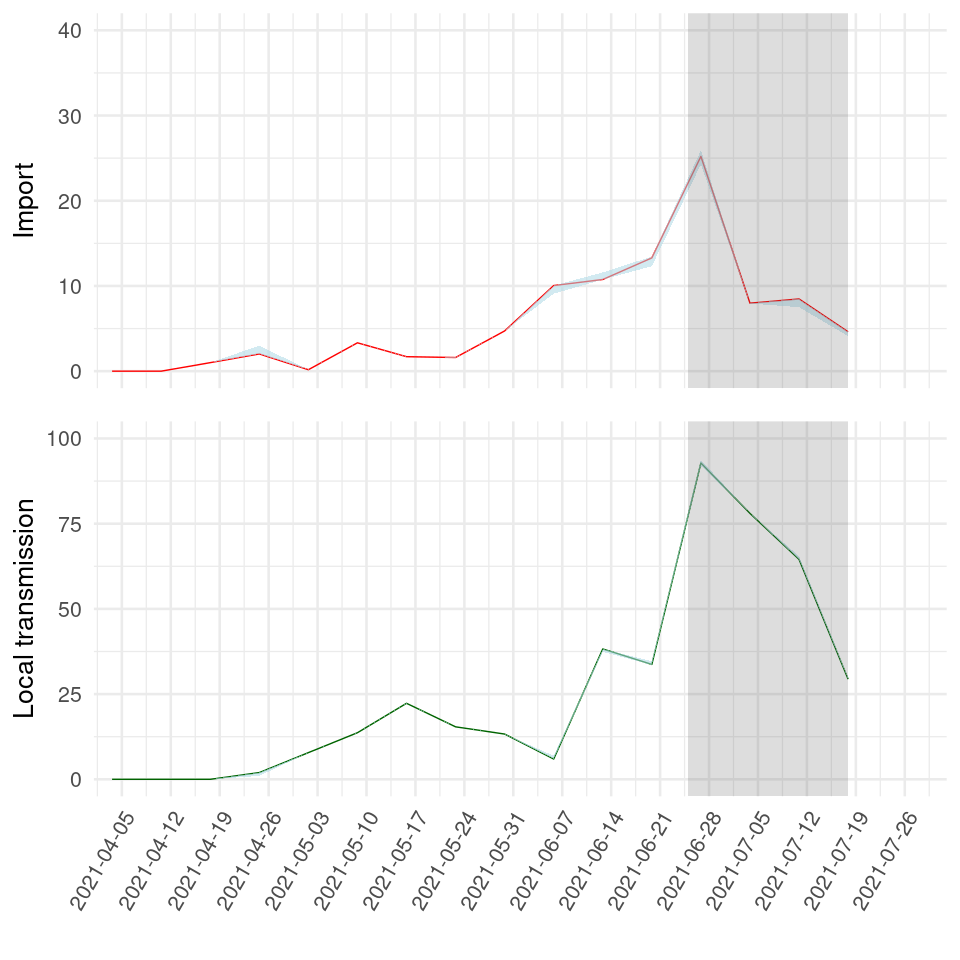
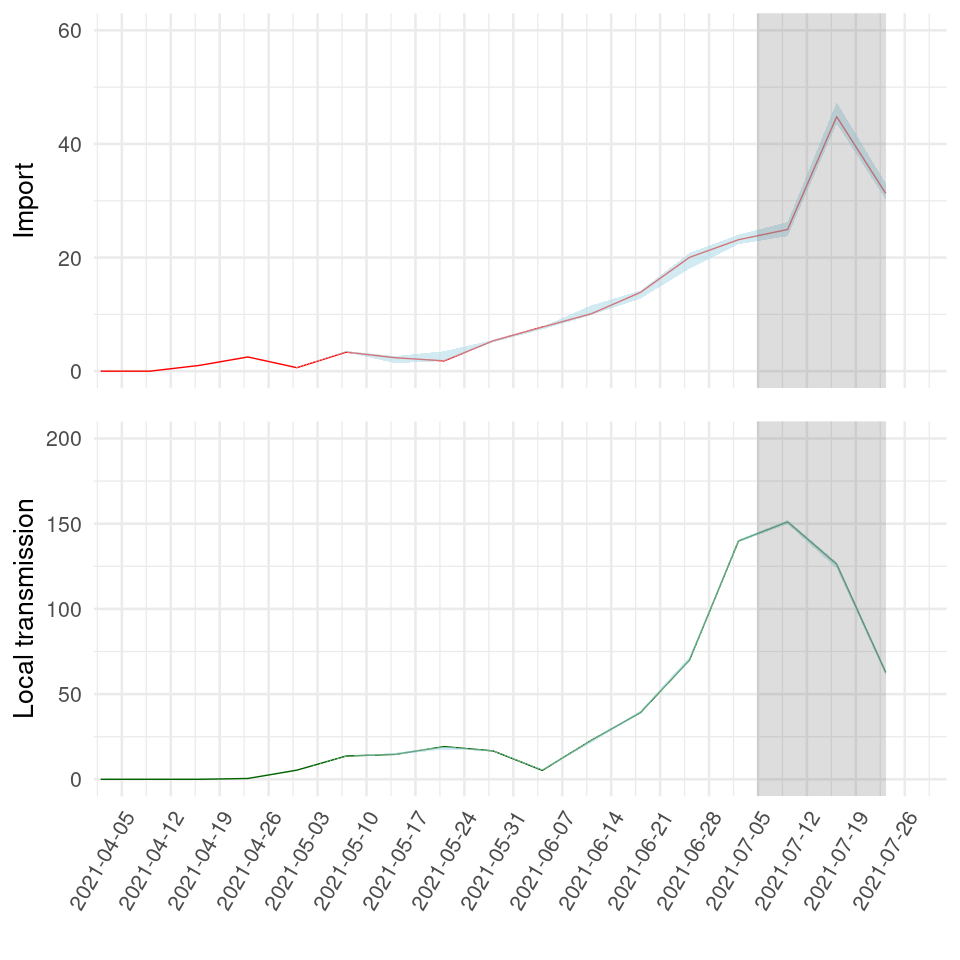
updated 2021-08-16
Updated with NextStrain build from 2021-08-08

diff --git a/B1-6172_results.md b/B1-6172_results.md
@@ -1,6 +1,6 @@
 Results - B.1.617.2, “Delta variant”
 ================
-02/08/2021
+16/08/2021
 
 Phylogeographic mapping
 
@@ -30,15 +30,13 @@ in Table 1.
 
 |                    |     2.5% |      50% |    97.5% |
 |:-------------------|---------:|---------:|---------:|
-| Import             |  91.4750 |  95.0000 |  97.0000 |
-| Local transmission | 415.0000 | 417.0000 | 420.5250 |
-| Import / Total     |   0.1787 |   0.1855 |   0.1895 |
+| Import             | 203.0000 | 207.0000 | 211.0000 |
+| Local transmission | 696.0000 | 700.0000 | 704.0000 |
+| Import / Total     |   0.2238 |   0.2282 |   0.2326 |
 
 ![](B1-6172_results_files/figure-gfm/unnamed-chunk-5-1.png)<!-- -->
 
 ###### Fig. 3. Relative quantification of infection source (new introduction / import vs local transmission).
-
-# REMEMBER CHECKING THAT X and Y MAX etc ARE OK BELOW
 
 ![](B1-6172_results_files/figure-gfm/unnamed-chunk-7-1.png)<!-- -->
 
